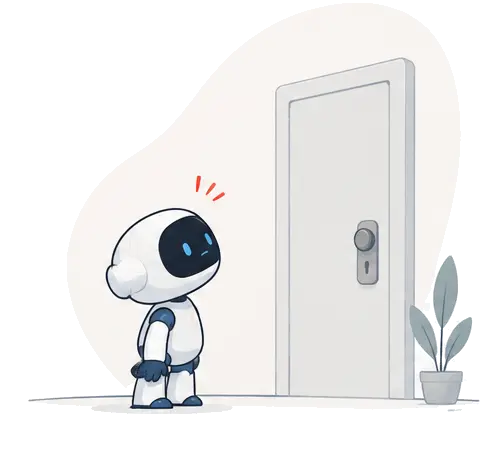
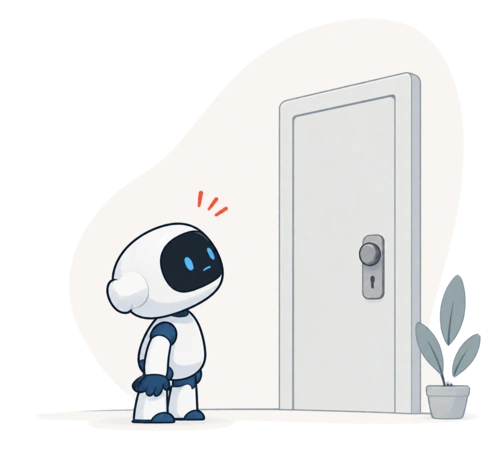
updated error images

Changed region(s): [[0.0606, 0.1244, 0.9697, 0.9644]]

diff --git a/resources/views/errors/429.blade.php b/resources/views/errors/429.blade.php
@@ -1,0 +1,18 @@
+@extends('layouts.error')
+
+@section('content')
+    <p class="ui-error-code">429</p>
+
+    <div class="space-y-2">
+        <h1 class="ui-error-title">{{ __('Too many tries') }}</h1>
+        <p class="ui-error-message">{{ __('Please wait a minute, then try again.') }}</p>
+    </div>
+
+    <x-button href="{{ auth()->check() || ! Route::has('login') ? url('/') : route('login') }}" color="primary" size="lg"
+        class="w-fit rounded-full">
+        {{ auth()->check() || ! Route::has('login') ? __('Take me home') : __('Back to sign in') }}
+        <x-heroicon-o-arrow-right class="h-4 w-4" />
+    </x-button>
+@endsection
+
+@section('illustration-src', asset('images/errors/error-429.webp'))
